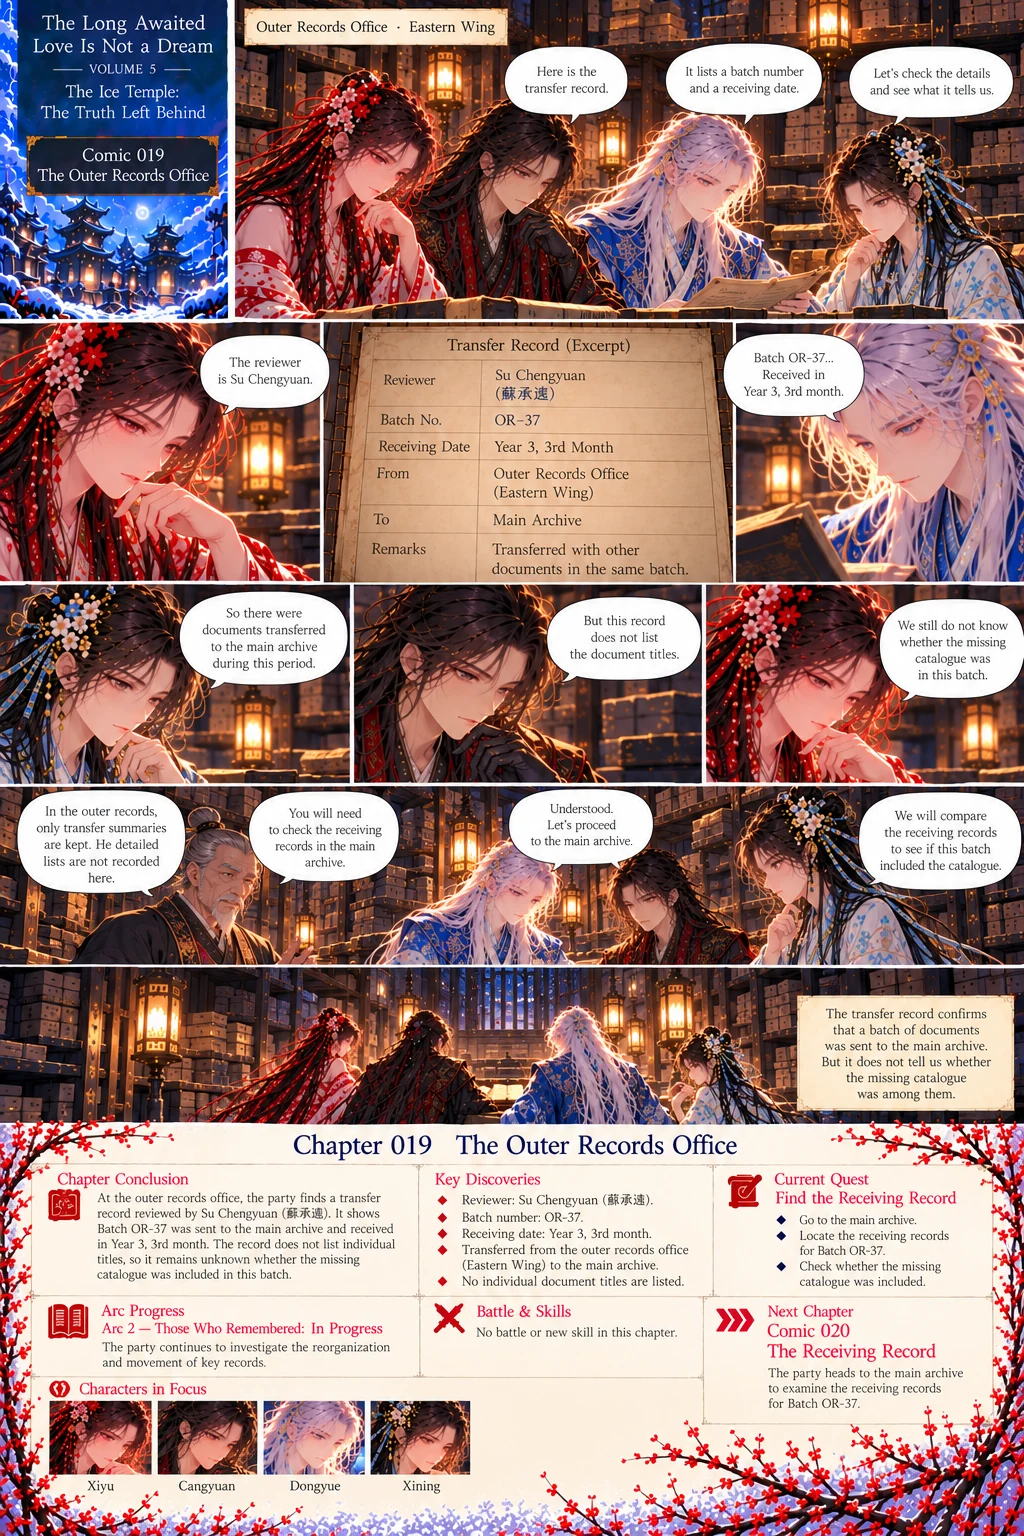
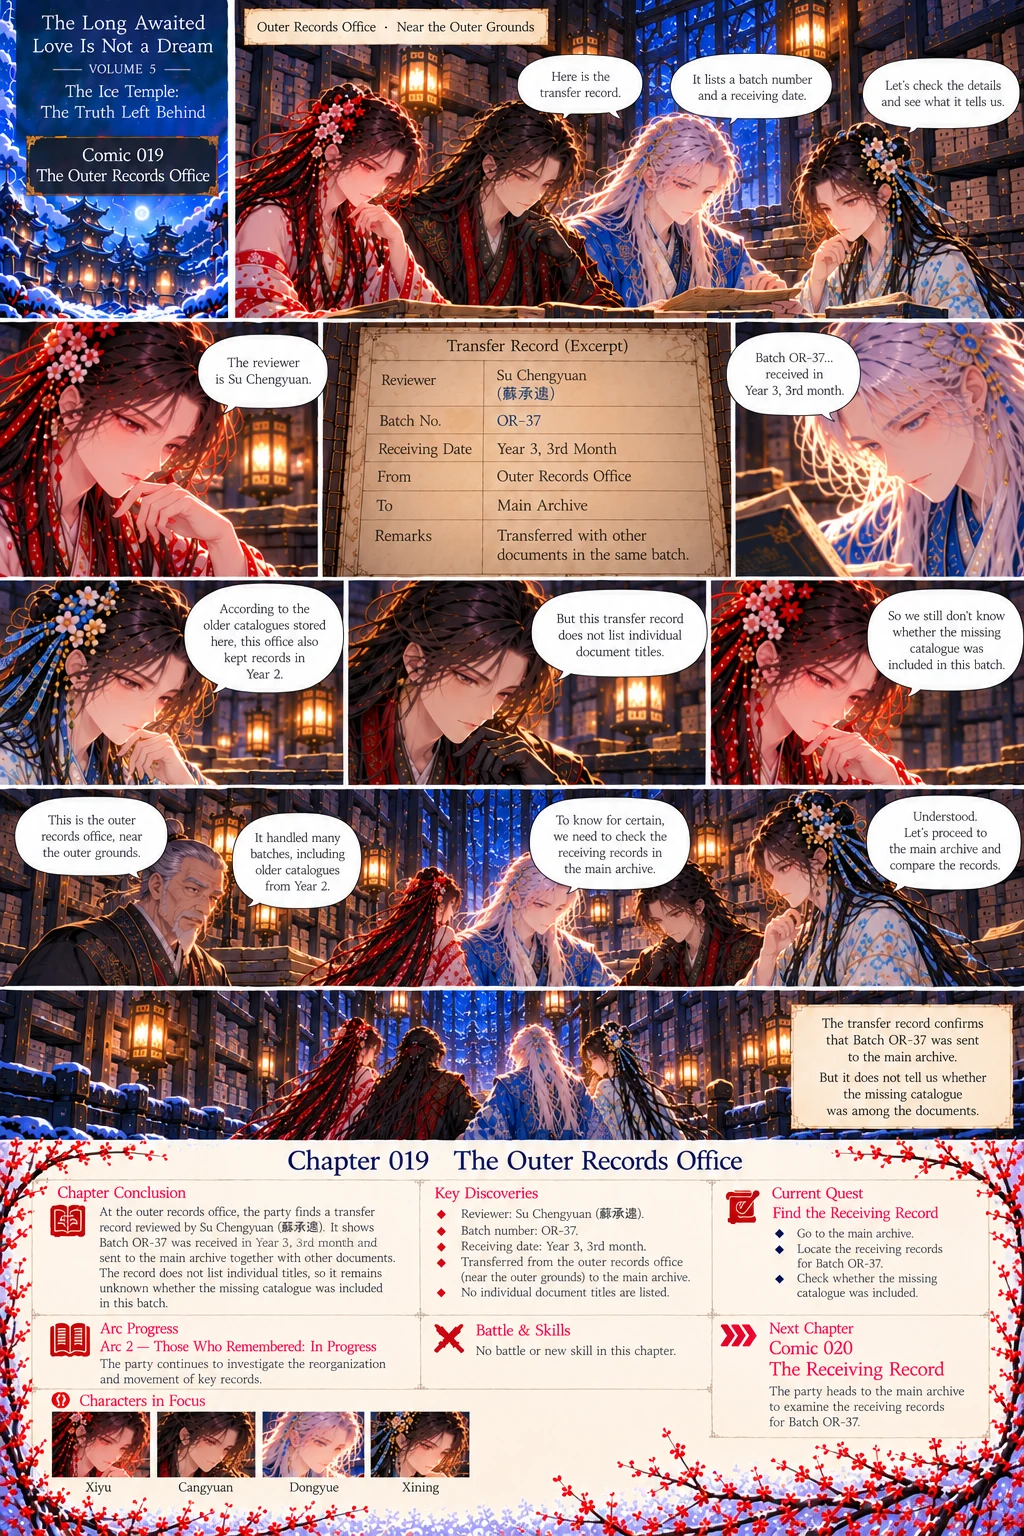
Volume 5: install final comic 019 (near the outer grounds, Year 2 catalogues) and align text
Claude-Session: https://claude.ai/code/session_01XEYzSJa6dBuS74MycM45Hs

diff --git a/scripts/chapters.js b/scripts/chapters.js
@@ -753,9 +753,9 @@ const CHAPTER_DESIGN = {
   sum:'VOLUME 5, COMIC 018. The personnel register gives the reviewer\'s name from File B as Su Chengyuan, Archive Official (Historical Records), transferred to the Records Office (Outer Grounds) in Year 3, 3rd month, about three years ago. The register records a transfer and gives no reason; there is no newer post recorded, so they cannot assume Su Chengyuan still works at the temple. A second note says that during the reorganisation of Year 2 the older catalogues were temporarily stored at the Records Office (Outer Grounds). That could explain where the earlier catalogue was last handled, but it does not prove it remained there. First they find out whether the reviewer can be reached, then ask about the catalogue without presuming the two are connected. The personnel record gave them a destination, not a culprit.',
   events:['Su Chengyuan, Archive Official.','Transferred to the Records Office.','Older catalogues were stored there.','"A destination, not a culprit."'],
   chars:['xiyu','dongyue','cangyuan','xining'], intro:[], unlocks:['Lead: the outer records office','Lead: Su Chengyuan']},
- 187:{title:'The Outer Records Office', book:'—', loc:'The Outer Records Office (Eastern Wing)',
-  sum:'VOLUME 5, COMIC 019. At the Outer Records Office (Eastern Wing) the party finds a transfer record reviewed by Su Chengyuan (蘇承遠): Batch OR-37, received in Year 3, 3rd month, from the Outer Records Office (Eastern Wing) to the Main Archive, "transferred with other documents in the same batch". It lists a batch number and a receiving date but no document titles, so they cannot tell whether the missing catalogue was among them. An older official says the outer records keep only transfer summaries; detailed lists are not recorded there, and the party will need the receiving records in the main archive. The transfer record confirms a batch of documents was sent to the main archive, but not whether the missing catalogue was among them.',
-  events:['A transfer record reviewed by Su Chengyuan.','Batch OR-37, received in Year 3, 3rd month.','"Only transfer summaries are kept here."','"We will compare the receiving records."'],
+ 187:{title:'The Outer Records Office', book:'—', loc:'The Outer Records Office, near the outer grounds',
+  sum:'VOLUME 5, COMIC 019. At the Outer Records Office, near the outer grounds, the party finds a transfer record reviewed by Su Chengyuan (蘇承遠): Batch OR-37, received in Year 3, 3rd month, from the Outer Records Office to the Main Archive, "transferred with other documents in the same batch". It lists a batch number and a receiving date but no document titles. According to the older catalogues stored here, the office also kept records in Year 2; an older official says it handled many batches, including older catalogues from Year 2. To know for certain they must check the receiving records in the main archive. The transfer record confirms Batch OR-37 was sent to the main archive, but not whether the missing catalogue was among the documents.',
+  events:['A transfer record reviewed by Su Chengyuan.','Batch OR-37, received in Year 3, 3rd month.','The office handled older catalogues from Year 2.','"We need to check the receiving records."'],
   chars:['xiyu','dongyue','cangyuan','xining'], intro:[], unlocks:['Discovery: Transfer Batch OR-37','Lead: the receiving record']},
  188:{title:'The Receiving Record', book:'—', loc:'The main archive',
   sum:'VOLUME 5, COMIC 020. In the main archive the party finds the receiving register for transfer batch OR-37 (received Year 3, 3rd month, from the Outer Records Office; Historical Records (partial), Temple Affairs (partial), Maps and Charts, Miscellaneous Documents). It confirms the catalogue collection arrived, but they cannot tell which one is the earlier catalogue. The remarks say the inventory was incomplete, some items were damaged, and refer to a supplementary list (if any), without saying where it is kept. They will search for the supplementary list in the related records; it may be filed separately, there may be a later update, another register or a damaged copy. The transfer record confirmed the catalogue collection arrived, but the answers still hid in the missing list.',

diff --git a/scripts/seal.js b/scripts/seal.js
@@ -239,7 +239,7 @@ const CLUES = [   // [hook id, category, comic, text]
   ['reviewer_initials_beside_the_entries', 'records', 'V5 016', 'Reviewer initials beside the register entries point to Review Notes, File B'],
   ['earlier_catalogue_missing_from_the_current_collection', 'records', 'V5 017', 'The reviewer\'s notes refer to an earlier catalogue that is missing from the current collection'],
   ['su_chengyuan_transferred_to_the_outer_records_office', 'records', 'V5 018', 'The reviewer is Su Chengyuan, transferred to the Records Office (Outer Grounds) three years ago; older catalogues were stored there during the Year 2 reorganisation'],
-  ['transfer_batch_or_37_returned_to_the_main_archive', 'records', 'V5 019', 'Transfer record: Batch OR-37, received Year 3, 3rd month, from the Outer Records Office (Eastern Wing) to the Main Archive, reviewed by Su Chengyuan; no titles listed, so whether the earlier catalogue was included is unconfirmed'],
+  ['transfer_batch_or_37_returned_to_the_main_archive', 'records', 'V5 019', 'Transfer record: Batch OR-37, received Year 3, 3rd month, from the Outer Records Office to the Main Archive, reviewed by Su Chengyuan; no titles listed, so whether the earlier catalogue was included is unconfirmed'],
   ['entry_records_a_disturbance_before_the_new_formation_diagram', 'records', 'V5 001', 'An old entry records a disturbance in the \'Year of Frost Moon\', before the new formation diagram was established; a fuller original account once existed, location unknown'],
   ['administrative_collection_moved_to_eastern_wing_secondary_storage', 'records', 'V5 013', 'The duplicate collection index places Collection A-27 in secondary storage in the eastern wing; a location, not proof the missing account was inside'],
   ['receiving_register_for_batch_or_37_found', 'records', 'V5 020', 'The receiving register confirms batch OR-37 arrived three years ago from the Outer Records Office (incomplete, partly damaged, with a supplementary list referenced)'],

diff --git a/scripts/hooks.js b/scripts/hooks.js
@@ -6635,14 +6635,14 @@ const HOOKS = {
 },
 {
 "id": "clerk_remembers_su_chengyuan_not_where_they_went",
-"d": "An older official says the outer records keep only transfer summaries, not detailed lists",
+"d": "An older official says the office handled many batches, including older catalogues from Year 2; the receiving records in the main archive must be checked",
 "t": "state",
 "p": false,
 "s": "art"
 },
 {
 "id": "transfer_batch_or_37_returned_to_the_main_archive",
-"d": "Transfer record: Batch OR-37, received Year 3, 3rd month, sent from the Outer Records Office (Eastern Wing) to the Main Archive; no document titles listed, so whether the earlier catalogue was included is unconfirmed",
+"d": "Transfer record: Batch OR-37, received Year 3, 3rd month, sent from the Outer Records Office to the Main Archive; no document titles listed, so whether the earlier catalogue was included is unconfirmed",
 "t": "event",
 "p": false,
 "s": "art"

diff --git a/tools/build_hooks.py b/tools/build_hooks.py
@@ -105,7 +105,7 @@ V2H={
  184:[('unmatched_entry_dates_to_the_storage_review','The unmatched entry dates to the later storage review; its original title and catalogue reference are missing','state'),('reviewer_initials_beside_the_entries','Reviewer initials appear beside the register entries (018: L.H., 019: S.C.Y.); their meaning needs confirmation','event'),('remarks_point_to_review_notes_file_b','The remarks point to Review Notes, File B (Historical Records), location blank','event'),('record_cannot_yet_be_connected_to_yan','The unmatched record cannot yet be connected to Yan','state')],
  185:[('review_notes_file_b_found','Review Notes, File B survives in the historical records section','event'),('reviewer_expected_an_earlier_catalogue',"The reviewer's note on the unidentified record says to compare with the earlier catalogue: original reference not present in the current collection",'event'),('earlier_catalogue_missing_from_the_current_collection','The earlier catalogue was not available during the review; the note does not say why','state'),('reviewer_signed_the_notebook','The reviewer signed the notebook (Year 12, 6th month)','event')],
  186:[('reviewer_identified_as_su_chengyuan','The personnel register names the reviewer from File B as Su Chengyuan, Archive Official (Historical Records)','event'),('su_chengyuan_transferred_to_the_outer_records_office','Su Chengyuan was transferred to the Records Office (Outer Grounds) in Year 3, 3rd month, about three years ago; no reason recorded and no newer post','state'),('older_catalogues_stored_at_the_records_office_during_year_2_reorganisation','During the reorganisation of Year 2 the older catalogues were temporarily stored at the Records Office (Outer Grounds)','event')],
- 187:[('outer_records_office_confirms_temporary_storage','The Outer Records Office holds the transfer record for Batch OR-37, reviewed by Su Chengyuan','event'),('clerk_remembers_su_chengyuan_not_where_they_went','An older official says the outer records keep only transfer summaries, not detailed lists','state'),('transfer_batch_or_37_returned_to_the_main_archive','Transfer record: Batch OR-37, received Year 3, 3rd month, sent from the Outer Records Office (Eastern Wing) to the Main Archive; no document titles listed, so whether the earlier catalogue was included is unconfirmed','event')],
+ 187:[('outer_records_office_confirms_temporary_storage','The Outer Records Office holds the transfer record for Batch OR-37, reviewed by Su Chengyuan','event'),('clerk_remembers_su_chengyuan_not_where_they_went','An older official says the office handled many batches, including older catalogues from Year 2; the receiving records in the main archive must be checked','state'),('transfer_batch_or_37_returned_to_the_main_archive','Transfer record: Batch OR-37, received Year 3, 3rd month, sent from the Outer Records Office to the Main Archive; no document titles listed, so whether the earlier catalogue was included is unconfirmed','event')],
  167:[('lower_marking_reacts_more_strongly_than_the_later_diagram_predicts','The lower marking reacts more strongly than the later diagram predicts: the record does not describe the seal as it functions now','state'),('lower_channel_present_in_original_missing_in_later_copy','The original diagram directs energy through a lower channel that the later copy omits (simplification or alteration: unknown)','event'),('lower_channel_may_have_carried_strain_or_served_another_purpose','If active, the lower channel may have carried strain from the outer seal, or served another purpose; older is not assumed safer','state'),('no_current_custodian_authorised_a_change','No current custodian authorised a change to the formation; who held authority before the commander is unrecorded','state'),('later_copy_made_after_the_earliest_disturbance','The later copy was made after the earliest disturbance was recorded; when exactly needs another dated record','state'),('xiyu_wants_to_know_who_changed_the_record','Xiyu: someone changed the record or preserved only part of it; she wants to know why, and whether Yan knew','state')],
  156:[('fresh_footprints_stop_at_the_frozen_pond','Fresh footprints, light and not from the party or the temple guards, lead to the pond edge and stop; the ice beyond is unmarked','event'),('faint_traces_near_the_stone_railing','Faint traces near the stone railing: someone was here for a reason','event'),('pavilion_diagram_removed_recently','The pavilion diagram was removed recently (the dust at its edges unsettled); whoever took it knew what it was','event'),('inventory_mentions_a_formation_diagram_entry_incomplete','The inventory mentions a formation diagram but the entry is incomplete; some records seem deliberately removed','state'),('someone_else_is_searching_for_the_same_truth','Not a random theft: someone else has begun searching for the truth beneath the Ice Temple','state')],
  157:[('library_shelves_rearranged_for_formation_records','The library shelves were rearranged; the missing scrolls are only those on the original formation and its maintenance','event'),('searcher_familiar_with_the_temple_archives','The searcher knew where to look and was familiar with the temple archives','state'),('side_chamber_scuffs_and_fresh_scratches','Scuffs along the corridor wall and fresh scratches on a sealed side chamber outside the inspection route: someone tried to force it open and stopped','event'),('possible_deliberate_distraction','Possibly a deliberate distraction: take the diagram, leave clear traces, make the search seem incomplete','state'),('remaining_notes_mention_containment_balance_adjustments','The remaining notes mention only containment, balance and regular adjustments','event')],

diff --git a/docs/VOLUME2.md b/docs/VOLUME2.md
@@ -219,3 +219,5 @@ Two Wilds zones open at chapter 117, for a party staying in the Ice Temple:
 - **013 and 016 re-supplied and installed:** 013's "itr" is now "it"; 016's "Raim:" is now "Remark:" (the remark field is blank). Text matches the game. 019 (the "Su Chengyuan" version with the Outer Realm entry) was NOT installed: it conflicts with 018 and 020 (see above); the earlier 019 stays.
 
 - **019 re-supplied again and installed (final):** "The Outer Records Office", Batch OR-37, Year 3 3rd month, reviewer Su Chengyuan, next comic 020. Game text for chapter 187 and its hooks/clue rewritten to match (an older official says only transfer summaries are kept; the earlier "damaged Temporary Storage Index" and the clerk who remembers Su Chengyuan are no longer shown). One small thing: chapter 018 says the party goes to the records office "near the outer grounds", while 019 labels it "Outer Records Office (Eastern Wing)"; and 019's page does not mention older catalogues stored there in Year 2 (018 does).
+
+- **019 final-final installed** ("Outer Records Office · Near the Outer Grounds"; Year 2 older catalogues restored; location matches 018). Chapter 187 text/hooks aligned. This resolves the 018/019 mismatches noted before. 019's transfer record says "From: Outer Records Office"; 020 says the same: consistent.
